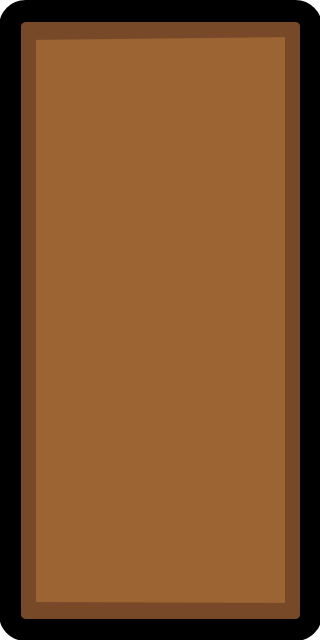
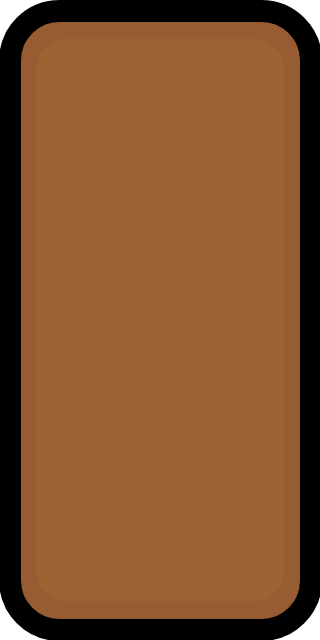
allowed setequipment and suit color command to work with humans and some png fixes

Changed region(s): [[0.0, 0.0, 1.0, 1.0]]

diff --git a/packages/junon-io/server/entities/mobs/human.js b/packages/junon-io/server/entities/mobs/human.js
@@ -2,8 +2,77 @@ const LandMob = require("./land_mob")
 const Protocol = require("./../../../common/util/protocol")
 const Constants = require("./../../../common/constants.json")
 const Projectiles = require('./../projectiles/index')
+const EquipmentInventory = require("./../equipment_inventory")
+const Needs = require("./../../../common/interfaces/needs")
+const NeedsServer = require("../../interfaces/needs")
 
 class Human extends LandMob {
+
+  preApplyData() {
+    this.initNeeds()
+    this.initEquipment()
+  }
+
+  initEquipment() {
+    this.equipments = new EquipmentInventory(this, 4)
+  }
+
+  setHandItem(item) {
+    this.equipments.storeAt(Protocol.definition().EquipmentRole.Hand, item)
+    this.onStateChanged("weaponType")
+  }
+
+  onEquipmentStorageChanged(item, index) {
+    if (index === Protocol.definition().EquipmentRole.Hand) {
+      if (this.getHandItem() && !this.getHandItem().isBuilding()) {
+        this.weaponType = this.getHandItem().getType()
+      } else {
+        this.weaponType = Protocol.definition().BuildingType.None
+      }
+      this.onStateChanged("weaponType")
+    }
+
+    if (item && item.getOwner() !== this) {
+      item.setOwner(this)
+    }
+
+    this.onStateChanged("equipments")
+    
+  }
+
+  setArmorItem(item) {
+    this.equipments.storeAt(Protocol.definition().EquipmentRole.Armor, item)
+  }
+
+  getArmorItem() {
+    return this.equipments.get(Protocol.definition().EquipmentRole.Armor)
+  }
+
+  getHandItem() {
+    return this.equipments.get(Protocol.definition().EquipmentRole.Hand)
+  }
+
+  getArmorEquip() {
+    const item = this.getArmorItem()
+    return item && item.instance
+  }
+
+  getArmorEquipment() {
+    return this.getArmorEquip()
+  }
+
+  getHandEquipment() {
+    const item = this.getHandItem()
+    return item && item.instance
+  }
+
+  changeSuitColor(color) {
+    let equipment = this.getArmorEquipment()
+    if (equipment && equipment.getType() === Protocol.definition().BuildingType.SpaceSuit) {
+      equipment.setContent(color)
+      this.onStateChanged("equipments")
+    }
+  }
 
   getType() {
     return Protocol.definition().MobType.Human
@@ -14,5 +83,35 @@ class Human extends LandMob {
   }
 
 }
+
+Object.assign(Human.prototype, Needs.prototype, {
+  onSleepStateChanged(){
+    this.onStateChanged("isSleeping")
+  },
+  onHungerZero() {
+    // this.setHealth(this.health - 2)
+  },
+  onOxygenChanged() {
+    this.onStateChanged("oxygen")
+  },
+  onStaminaChanged() {
+    this.onStateChanged("stamina")
+  },
+  onHungerChanged() {
+    this.onStateChanged("hunger")
+  },
+  onHappinessChanged() {
+    this.onStateChanged("happiness")
+  },
+  getMaxOxygen() {
+    return this.getStats().oxygen
+  }
+})
+
+Object.assign(Human.prototype, NeedsServer.prototype, {
+  getHungerReduceInterval() {
+    return 8
+  }
+})
 
 module.exports = Human

diff --git a/packages/junon-io/server/commands/setequipment.js b/packages/junon-io/server/commands/setequipment.js
@@ -34,9 +34,29 @@ class SetEquipment extends BaseCommand {
     let type = args[2] || ""
     type = this.sector.klassifySnakeCase(type)
 
-    let targetPlayers = this.getPlayersBySelector(username)
-    if (targetPlayers.length === 0) {
-      player.showChatError("No such player: " + username)
+    // Try to find players first, then mobs (by name or ID)
+    let targetEntities = this.getPlayersBySelector(username)
+    if (targetEntities.length === 0) {
+      // Try by numeric ID
+      const id = parseInt(username)
+      if (!isNaN(id)) {
+        const entity = this.game.getEntity(id)
+        if (entity && !entity.isPlayer()) {
+          targetEntities = [entity]
+        }
+      }
+      
+      // Try by name
+      if (targetEntities.length === 0) {
+        const entity = this.game.getMobByName(username)
+        if (entity) {
+          targetEntities = [entity]
+        }
+      }
+    }
+
+    if (targetEntities.length === 0) {
+      player.showChatError("No such player or mob: " + username)
       return
     }
 
@@ -68,12 +88,12 @@ class SetEquipment extends BaseCommand {
       return
     }
 
-    targetPlayers.forEach((targetPlayer) => {
-      if (!targetPlayer.equipments.isFullyStored()) {
+    targetEntities.forEach((targetEntity) => {
+      if (!targetEntity.equipments.isFullyStored()) {
         let options = {}
 
-        const item = targetPlayer.createItem(type, options)
-        targetPlayer.equipments.storeAt(index, item)
+        const item = targetEntity.createItem(type, options)
+        targetEntity.equipments.storeAt(index, item)
       }
     })
 

diff --git a/packages/junon-io/client/src/entities/mobs/base_mob.js b/packages/junon-io/client/src/entities/mobs/base_mob.js
@@ -261,6 +261,7 @@ class BaseMob extends BaseEntity {
     this.setContent(data.content)
     this.setNameColor(data.nameColor)
     this.setNameSize(data.nameSize)
+    this.setEquipments(data)
 
     if (data.hasOwnProperty('weaponType')) {
       this.setWeaponType(data.weaponType)
@@ -272,6 +273,42 @@ class BaseMob extends BaseEntity {
 
     if (data.shipId) {
       this.ship = this.game.ships[data.shipId]
+    }
+  }
+
+  setEquipments(data) {
+    if (!data.equipments) return
+    if (!data.equipments.storage) return
+    
+    for (let index in data.equipments.storage) {
+      let equipment = data.equipments.storage[index]    
+      this.renderEquipment(equipment)
+    }
+  }
+
+  renderEquipment(data) {
+    if (!this.isEquipper()) return
+
+    const index = data.index
+    let existingEquipment = this.equipments[index]
+
+    // equipment slot changed
+    if (existingEquipment) {
+      let isSameEquipment = data.id === existingEquipment.id
+      if (isSameEquipment) {
+        existingEquipment.syncWithServer(data)
+      } else {
+        existingEquipment.remove()
+        existingEquipment = null
+      }
+    }
+
+    // dont convert to else if (existingEquipment can become null above)
+    if (!existingEquipment) {
+      // init equipment
+      data.user = this
+      this.equipments[index] = Item.getKlass(data.type).build(this.game, data)
+      this.equipments[index].onPostEquip()
     }
   }
   

diff --git a/packages/junon-io/client/src/entities/equipments/armor/space_suit.js b/packages/junon-io/client/src/entities/equipments/armor/space_suit.js
@@ -29,7 +29,7 @@ class SpaceSuit extends ArmorEquipment {
   updateHandsColor() {
     let color = this.data.instance.content || this.content || "gray"
 
-    if (this.user && this.user.isPlayer() && color !== 'gray') {
+    if (this.user && (this.user.isPlayer() || this.user.getType() === Protocol.definition().MobType.Human) && color !== 'gray') {
       this.user.hands.tint = 0x666666
       this.user.leftHand.tint = 0x666666
       this.user.rightHand.tint = 0x666666
@@ -43,7 +43,7 @@ class SpaceSuit extends ArmorEquipment {
   remove() {
     super.remove()
 
-    if (this.user && this.user.isPlayer()) {
+    if (this.user && (this.user.isPlayer() || this.user.getType() === Protocol.definition().MobType.Human)) {
       this.user.hands.tint = 0xd2b48c
       this.user.leftHand.tint = 0xd2b48c
       this.user.rightHand.tint = 0xd2b48c

diff --git a/packages/junon-io/client/src/entities/equipments/armor/imperial_special_forces_armor.js b/packages/junon-io/client/src/entities/equipments/armor/imperial_special_forces_armor.js
@@ -29,18 +29,17 @@ class ImperialSpecialForcesArmor extends ArmorEquipment {
   onPostEquip() {
     super.onPostEquip()
 
-    if (this.user && this.user.isPlayer()) {
+    if (this.user && (this.user.isPlayer() || this.user.getType() === Protocol.definition().MobType.Human)) {
       this.user.hands.tint = 0x666666
       this.user.leftHand.tint = 0x666666
       this.user.rightHand.tint = 0x666666
     }
   }
 
-
   remove() {
     super.remove()
 
-    if (this.user && this.user.isPlayer()) {
+    if (this.user && (this.user.isPlayer() || this.user.getType() === Protocol.definition().MobType.Human)) {
       this.user.hands.tint = 0xd2b48c
       this.user.leftHand.tint = 0xd2b48c
       this.user.rightHand.tint = 0xd2b48c

diff --git a/packages/junon-io/client/src/entities/equipments/armor/combat_armor.js b/packages/junon-io/client/src/entities/equipments/armor/combat_armor.js
@@ -29,18 +29,17 @@ class CombatArmor extends ArmorEquipment {
   onPostEquip() {
     super.onPostEquip()
 
-    if (this.user && this.user.isPlayer()) {
+    if (this.user && (this.user.isPlayer() || this.user.getType() === Protocol.definition().MobType.Human)) {
       this.user.hands.tint = 0x666666
       this.user.leftHand.tint = 0x666666
       this.user.rightHand.tint = 0x666666
     }
   }
 
-
   remove() {
     super.remove()
 
-    if (this.user && this.user.isPlayer()) {
+    if (this.user && (this.user.isPlayer() || this.user.getType() === Protocol.definition().MobType.Human)) {
       this.user.hands.tint = 0xd2b48c
       this.user.leftHand.tint = 0xd2b48c
       this.user.rightHand.tint = 0xd2b48c

diff --git a/packages/junon-io/server/commands/suitcolor.js b/packages/junon-io/server/commands/suitcolor.js
@@ -28,7 +28,28 @@ class SuitColor extends BaseCommand {
       return
     }
 
-    let entities = this.getPlayersBySelector(selector) 
+    let entities = this.getPlayersBySelector(selector)
+
+    if (entities.length === 0) {
+      const id = parseInt(selector)
+
+      if (!isNaN(id)) {
+        const entity = this.game.getEntity(id)
+
+        if (entity && !entity.isPlayer()) {
+          entities = [entity]
+        }
+      }
+
+      if (entities.length === 0) {
+        const entity = this.game.getMobByName(selector)
+
+        if (entity) {
+          entities = [entity]
+        }
+      }
+    }
+
     entities.forEach((entity) => {
       entity.changeSuitColor(color)
     })

diff --git a/packages/junon-io/server/entities/mobs/base_mob.js b/packages/junon-io/server/entities/mobs/base_mob.js
@@ -1270,6 +1270,7 @@ this.setNameColor(data.nameColor)
 
 
     this.onStateChanged("weaponType")
+    this.onStateChanged("equipments")
   }
 
   getHandItem() {
@@ -2107,7 +2108,10 @@ this.setNameColor(data.nameColor)
     }).join(", ")
   }
 
-  onStateChanged() {
+  onStateChanged(attribute) {
+    if (attribute) {
+      this.changedAttributes[attribute] = true
+    }
     let chunk = this.getChunk()
     if (chunk) {
       chunk.addChangedMobs(this)
